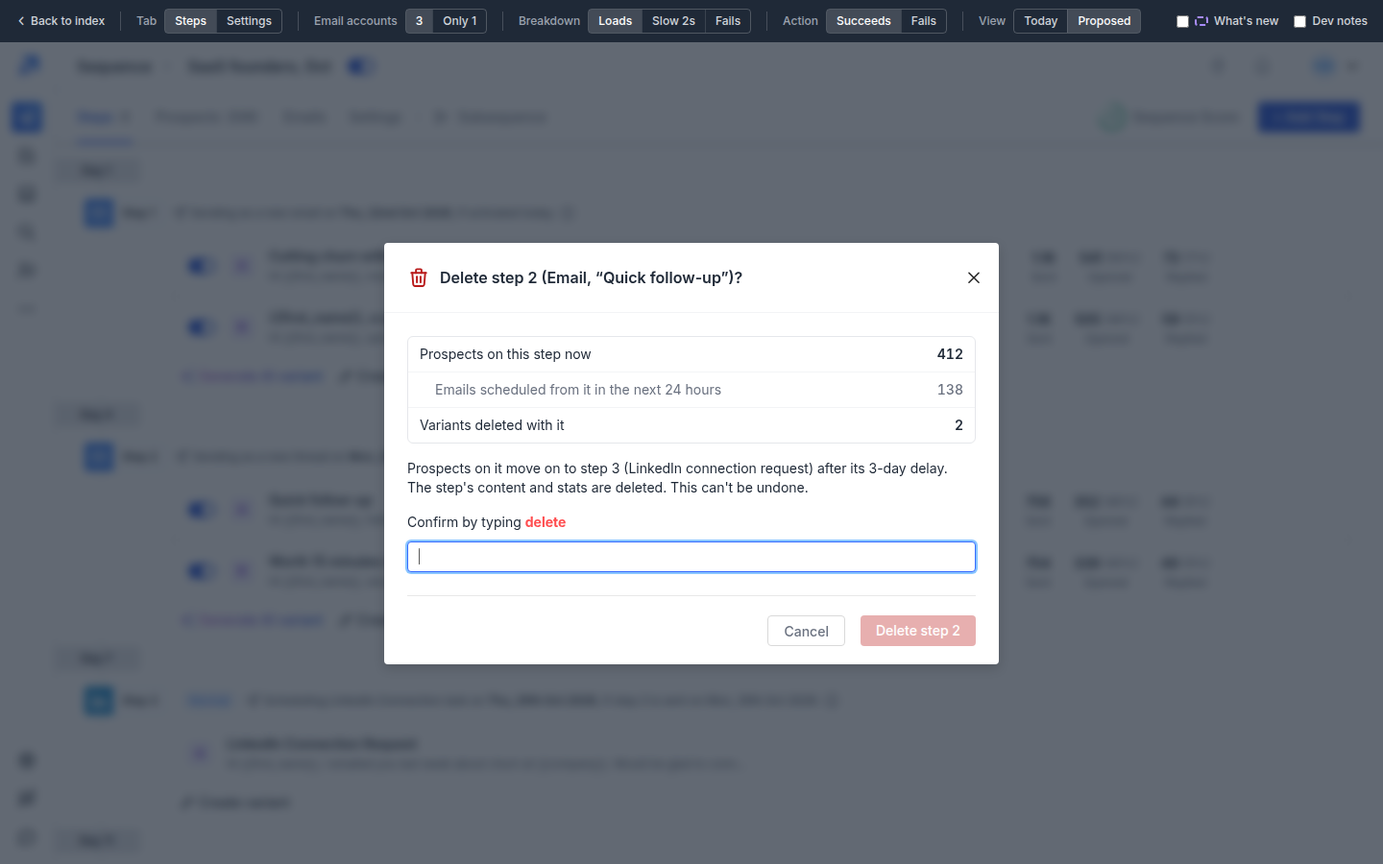
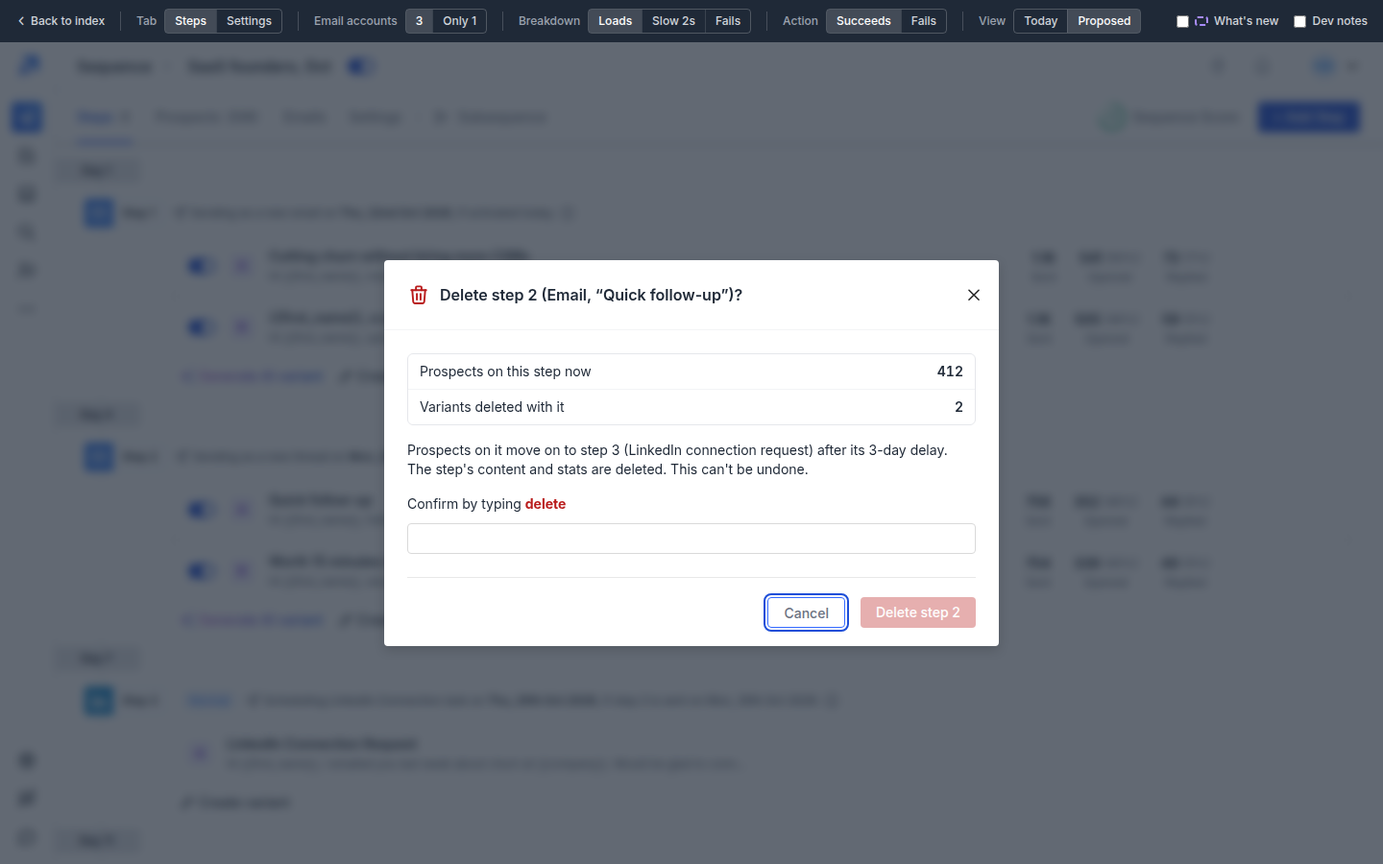
Dialogs: no names list, no time-window rows
- Never list selected items' names: the selection stays visible behind the dialog (Sequence list Pause, Resume, Delete; Email accounts bulk Delete, Disconnect)
- Drop rows counting what is due soon: next hour, today, next 24 hours (Sequence list, Email accounts, Delete step, Remove email account)
- One remaining row renders as a sentence
- Rule added to spec anatomy and PRD D1; acceptance rows, screens 07 08 10 12 24 25, PRD page rebuilt

Changed region(s): [[0.2812, 0.4044, 0.7188, 0.7778], [0.2812, 0.28, 0.7188, 0.3733], [0.6562, 0.4044, 0.7188, 0.4356]]

diff --git a/prototype/sequence-list.js b/prototype/sequence-list.js
@@ -117,9 +117,9 @@
       { key: 'view', label: 'View', value: S.view, options: [['today', 'Today'], ['proposed', 'Proposed']], onChange: (v) => { S.view = v; if (v === 'today' && S.all) { S.all = false; list().slice(0, CAP).forEach((s) => S.sel.add(s.id)); } render(); } },
     ],
     devNotes: {
-      intro: 'Spec row 5. The bulk bar acts on up to 100 sequences (constants.SELECTED_SEQUENCE_LIMIT). The breakdown counts (prospects in progress, emails scheduled in the next hour, subsequences) come from the backend before the dialog opens. Undo needs the bulk pause or resume to start only after 10 seconds and be cancellable until then; the bulk endpoints already return per-sequence success and failure counts.',
+      intro: 'Spec row 5. The bulk bar acts on up to 100 sequences (constants.SELECTED_SEQUENCE_LIMIT). The breakdown counts (prospects in progress, subsequences) come from the backend before the dialog opens. Undo needs the bulk pause or resume to start only after 10 seconds and be cancellable until then; the bulk endpoints already return per-sequence success and failure counts.',
       rows: [
-        { n: 5, surface: 'Sequence list', action: 'Bulk Pause, bulk Resume, row switch', patterns: 'A B F H', breakdown: 'Sequences named (first 3, then "and N more"). Pause: prospects in progress who stop getting emails, emails scheduled in the next hour, subsequences (keep sending, or pause too when the checkbox is on). Resume: prospects in progress who start getting emails again, emails that go out today. Sequences the action does not apply to are named in a note, including any that cannot resume because their email account is disconnected.', undo: 'Yes, 10 seconds',
+        { n: 5, surface: 'Sequence list', action: 'Bulk Pause, bulk Resume, row switch', patterns: 'A B F H', breakdown: 'No names list: the selected rows stay visible behind the dialog. Pause: prospects in progress who stop getting emails, subsequences (keep sending, or pause too when the checkbox is on). Resume: prospects in progress who start getting emails again. Sequences the action does not apply to are named in a note, including any that cannot resume because their email account is disconnected.', undo: 'Yes, 10 seconds',
           code: [
             { label: 'sequence-list-filter-bar.tsx L180-218 (icon-only Pause and Resume, red "Delete N Sequences")', url: FB + '#L180-L218' },
             { label: 'pause-resume-sequence-modal.tsx L38-67 ("Are you sure you want to pause the Sequence?", Yes / No)', url: MD + '#L38-L67' },
@@ -238,18 +238,8 @@
   const q = (s) => `“${esc(s.title)}”`;
   const nS = (n) => `${fmt(n)} ${plural(n, 'sequence', 'sequences')}`;
   const sum = (arr, k) => arr.reduce((a, s) => a + s[k], 0);
-  const names = (arr) => {
-    const first = arr.slice(0, 3).map(q);
-    const more = arr.length - first.length;
-    if (!more) return first.length === 1 ? first[0] : `${first.slice(0, -1).join(', ')} and ${first[first.length - 1]}`;
-    return `${first.join(', ')} and ${fmt(more)} more`;
-  };
   const isEverything = (arr) => arr.length === list().length;
   const dlgCommon = (o) => Object.assign({ breakdown: S.breakdown, submit: S.result, breakdownDelay: window.SL_BD, submitDelay: window.SL_SD }, o);
-  function addNames(dlg, arr) { // the sequences, named, sit above the breakdown
-    const box = dlg.el.querySelector('.nx-impact');
-    box.prepend(h(`<p class="sl-names">${names(arr)}</p>`));
-  }
   /* Today's "Pause the subsequences as well" checkbox, kept; it now carries the count and updates the breakdown row */
   function subExtra(count, row) {
     let on = false;
@@ -300,9 +290,9 @@
       tone: 'primary', icon: NX.IMG('pause-circle.svg'),
       rows: [
         { key: 'active', label: 'Prospects in progress who stop getting emails', value: sum(arr, 'inProgress') },
-        { key: 'soon', label: 'Emails scheduled in the next hour', value: sum(arr, 'nextHour'), sub: true },
         subRow,
       ],
+      sentence: (r) => (r.key === 'active' ? `${fmt(r.value)} ${plural(r.value, 'prospect is', 'prospects are')} in progress and ${r.value === 1 ? 'stops' : 'stop'} getting emails.` : `${fmt(r.value)} ${plural(r.value, 'subsequence keeps', 'subsequences keep')} sending.`),
       note: skipped ? `${nS(skipped)} ${skipped === 1 ? 'is' : 'are'} already paused and ${skipped === 1 ? 'stays' : 'stay'} as ${skipped === 1 ? 'it is' : 'they are'}.` : null,
       extra: subs ? subExtra(subs, subRow) : null,
       consequence: `They stop sending until you resume them.${allActive ? ' Nothing sends from this account until then.' : ''} You can undo this for 10 seconds.`,
@@ -318,12 +308,11 @@
       // one sequence: no lookup; the breakdown becomes one sentence from the row's own counts
       o.rows = [{ key: 'one', label: '', value: 1 }];
       o.breakdown = 'ok'; o.breakdownDelay = 0;
-      o.sentence = `${fmt(s.inProgress)} ${plural(s.inProgress, 'prospect is', 'prospects are')} in progress${s.nextHour ? `, with ${fmt(s.nextHour)} ${plural(s.nextHour, 'email', 'emails')} scheduled in the next hour` : ''}. ${s.subs.length ? `Its ${s.subs.length === 1 ? 'subsequence keeps' : `${s.subs.length} subsequences keep`} sending unless you pause ${s.subs.length === 1 ? 'it' : 'them'} too.` : ''}`;
+      o.sentence = `${fmt(s.inProgress)} ${plural(s.inProgress, 'prospect is', 'prospects are')} in progress. ${s.subs.length ? `Its ${s.subs.length === 1 ? 'subsequence keeps' : `${s.subs.length} subsequences keep`} sending unless you pause ${s.subs.length === 1 ? 'it' : 'them'} too.` : ''}`;
       o.consequence = `It stops sending until you resume it. You can undo this for 10 seconds.`;
       o.onConfirm = (withSubs) => commitStatus(arr, 'paused', withSubs, { message: `Paused ${q(s)}`, undone: `Undone. ${q(s)} is active again` });
     }
     const dlg = nxImpactDialog(o);
-    if (!one) addNames(dlg, arr);
     return dlg;
   }
 
@@ -343,8 +332,8 @@
       tone: 'primary', icon: NX.IMG('play-circle.svg'),
       rows: [
         { key: 'inprog', label: 'Prospects in progress who start getting emails again', value: sum(arr, 'inProgress') },
-        { key: 'today', label: 'Emails that go out today', value: sum(arr, 'sendToday'), sub: true },
       ],
+      sentence: (r) => `${fmt(r.value)} ${plural(r.value, 'prospect is', 'prospects are')} in progress and ${r.value === 1 ? 'starts' : 'start'} getting emails again.`,
       note: notes.join(' ') || null,
       consequence: `They pick up where they stopped. You can undo this for 10 seconds.`,
       primaryLabel: one ? 'Resume sequence' : `Resume ${nS(N)}`,
@@ -358,11 +347,10 @@
       const s = arr[0];
       o.rows = [{ key: 'one', label: '', value: 1 }];
       o.breakdown = 'ok'; o.breakdownDelay = 0;
-      o.sentence = `${fmt(s.inProgress)} ${plural(s.inProgress, 'prospect is', 'prospects are')} still in progress${s.sendToday ? `; ${fmt(s.sendToday)} ${plural(s.sendToday, 'email goes', 'emails go')} out today` : ''}.`;
+      o.sentence = `${fmt(s.inProgress)} ${plural(s.inProgress, 'prospect is', 'prospects are')} still in progress.`;
       o.consequence = 'It picks up where it stopped. You can undo this for 10 seconds.';
     }
     const dlg = nxImpactDialog(o);
-    if (!one) addNames(dlg, arr);
     return dlg;
   }
 
@@ -386,9 +374,9 @@
         tone: 'danger',
         rows: [
           { key: 'active', label: 'Prospects in progress', value: sum(sel, 'inProgress') },
-          { key: 'soon', label: 'Emails scheduled in the next hour', value: sum(sel, 'nextHour') },
           { key: 'subs', label: 'Subsequences deleted with them', value: subs },
         ],
+        sentence: (r) => (r.key === 'active' ? `${fmt(r.value)} ${plural(r.value, 'prospect is', 'prospects are')} in progress.` : `${fmt(r.value)} ${plural(r.value, 'subsequence is', 'subsequences are')} deleted with them.`),
         consequence: `${one ? 'Its' : 'Their'} steps, prospects' progress and stats are deleted. This can't be undone.`,
         primaryLabel: one ? 'Delete sequence' : `Delete ${nS(N)}`, typeToConfirm: 'delete',
         failMessage: { title: `We couldn't delete ${one ? 'this sequence' : 'these sequences'} because ${one ? 'it was' : 'one of them was'} already deleted by a teammate.`, body: 'Refresh the page and try again.' },
@@ -402,10 +390,9 @@
         const x = sel[0];
         o.rows = [{ key: 'one', label: '', value: 1 }];
         o.breakdown = 'ok'; o.breakdownDelay = 0;
-        o.sentence = `${fmt(x.inProgress)} ${plural(x.inProgress, 'prospect is', 'prospects are')} in progress${x.nextHour ? `, with ${fmt(x.nextHour)} ${plural(x.nextHour, 'email', 'emails')} scheduled in the next hour` : ''}.${x.subs.length ? ` Its ${x.subs.length === 1 ? 'subsequence is' : `${fmt(x.subs.length)} subsequences are`} deleted with it.` : ''}`;
+        o.sentence = `${fmt(x.inProgress)} ${plural(x.inProgress, 'prospect is', 'prospects are')} in progress.${x.subs.length ? ` Its ${x.subs.length === 1 ? 'subsequence is' : `${fmt(x.subs.length)} subsequences are`} deleted with it.` : ''}`;
       }
       const dlg = nxImpactDialog(o);
-      if (!one) addNames(dlg, sel);
       return dlg;
     }
     return window.SL_DELETE(sel.length, () => {

diff --git a/prototype/email-accounts.js b/prototype/email-accounts.js
@@ -104,17 +104,17 @@
       { key: 'reset', label: 'Data', value: '', options: [['reset', 'Reset']], onChange: () => { DATA = build(); gone.clear(); applySel(S.sel); render(); shell.setControl('reset', ''); } },
     ],
     devNotes: {
-      intro: 'Spec rows 17 to 20. Counts in every dialog come from the backend when it opens (one call, also for a single account: emails scheduled today are not on the row). Delete and Disconnect have no undo because they act on Google, Microsoft or the SMTP server at once. Pause and Remove tags need the real change to start only after 10 seconds and be cancellable until then.',
+      intro: 'Spec rows 17 to 20. Counts in every dialog come from the backend when it opens (one call, also for a single account). Delete and Disconnect have no undo because they act on Google, Microsoft or the SMTP server at once. Pause and Remove tags need the real change to start only after 10 seconds and be cancellable until then.',
       rows: [
         { n: 17, surface: 'Email accounts', action: 'Bulk Delete, bulk Disconnect (up to 25,000)', patterns: 'A B F',
-          breakdown: 'Accounts named (first 3 and "and N more"). Sequences that pause because no other sender is left; sequences that keep sending from other accounts; emails scheduled today from these accounts; accounts whose warm-up stops (Delete only). Sequences that pause are named in a note. The title counts what changes: Disconnect skips accounts that are already paused or disconnected and says so. Delete of everything says "all" and adds "No email accounts will be left to send from."',
+          breakdown: 'No names list: the selected rows stay visible behind the dialog. Sequences that pause because no other sender is left; sequences that keep sending from other accounts; accounts whose warm-up stops (Delete only). Sequences that pause are named in a note. The title counts what changes: Disconnect skips accounts that are already paused or disconnected and says so. Delete of everything says "all" and adds "No email accounts will be left to send from."',
           undo: 'No', code: [{ label: 'email-accounts-actions.tsx L163-207 (icon-only bar, tooltips only)', url: ACT + '#L163-L207' }, { label: 'email-accounts-actions.tsx L684-740 (both modals, "Yes")', url: ACT + '#L684-L740' }, { label: 'en.ts L1647-1650 ("all the selected email accounts")', url: LOC + '#L1647-L1650' }, { label: 'helper.ts L52-55 ("6 Email Account(s) selected.")', url: BAN + '#L52-L55' }],
           v3: 'saleshandy-app b39fe37 has no Email Accounts page (src/features has none), so nothing to change there yet.' },
         { n: 18, surface: 'Email accounts', action: 'Single Delete, Disconnect (row menu)', patterns: 'F',
           breakdown: 'Account named in the title. Same rows as bulk for that one account; sequences that pause are named.', undo: 'No',
           code: [{ label: 'email-accounts-table.tsx L194-258 (row menu)', url: TBL + '#L194-L258' }, { label: 'delete-email-account-modal.tsx L16-41 (account not named)', url: EA + 'components/delete-email-account-modal/delete-email-account-modal.tsx#L16-L41' }, { label: 'disconnect-email-account-modal.tsx', url: EA + 'components/disconnect-email-account-modal/disconnect-email-account-modal.tsx' }] },
         { n: 19, surface: 'Email accounts', action: 'Status switch to Pause', patterns: 'F H',
-          breakdown: 'Sequences that pause (no other sender left), sequences that keep sending, emails scheduled today from it.', undo: 'Yes, 10 seconds',
+          breakdown: 'Sequences that pause (no other sender left), sequences that keep sending.', undo: 'Yes, 10 seconds',
           code: [{ label: 'get-email-accounts-columns.tsx L250-263 (switch)', url: COL + '#L250-L263' }, { label: 'email-accounts-content.tsx L1062-1068, L800-806 (fires at once)', url: CNT + '#L1062-L1068' }, { label: 'email-accounts-content.tsx L474 ("Email account paused successfully")', url: CNT + '#L474' }] },
         { n: 20, surface: 'Email accounts', action: 'Remove tags', patterns: 'A F H',
           breakdown: 'Tags on the selected accounts, each with how many of them carry it; the picker is the breakdown. The consequence counts the accounts that lose at least one tag.', undo: 'Yes, 10 seconds',
@@ -248,10 +248,6 @@
     if (q.length <= 3) return q.length === 1 ? q[0] : `${q.slice(0, -1).join(', ')} and ${q[q.length - 1]}`;
     return `${q.slice(0, 3).join(', ')} and ${q.length - 3} more`;
   };
-  const namesLine = (accts) => {
-    const e = accts.map((a) => esc(a.email));
-    return e.length <= 3 ? `${e.slice(0, -1).join(', ')} and ${e[e.length - 1]}` : `${e.slice(0, 3).join(', ')} and ${e.length - 3} more`;
-  };
   function addLead(d, html) {
     const imp = d.el.querySelector('.nx-impact');
     if (imp) imp.prepend(h(`<p class="ea-lead nx-new">${html}</p>`));
@@ -262,17 +258,15 @@
     return [
       { key: 'stop', label: 'Sequences that pause, no other sender left', value: imp.stop.length },
       { key: 'keep', label: 'Sequences that keep sending from other accounts', value: imp.keep.length },
-      { key: 'today', label: `Emails scheduled today from ${one ? 'it' : 'these accounts'}`, value: imp.today },
       ...(withWarm ? [{ key: 'warm', label: 'Accounts whose warm-up stops', value: one ? 0 : imp.warm }] : []),
     ];
   }
   const sentenceFor = (one) => (r) => ({
     stop: `${r.value === 1 ? '1 sequence pauses' : `${fmt(r.value)} sequences pause`}; no other sender is left.`,
     keep: `${nS(r.value)} keep${r.value === 1 ? 's' : ''} sending from other accounts.`,
-    today: `${fmt(r.value)} ${plural(r.value, 'email is', 'emails are')} scheduled today from ${one ? 'it' : 'these accounts'}.`,
     warm: one ? 'Its warm-up stops.' : `Warm-up stops on ${nE(r.value)}.`,
   }[r.key]);
-  const hasImpact = (imp, warm) => imp.stop.length + imp.keep.length + imp.today + (warm ? imp.warm : 0) > 0;
+  const hasImpact = (imp, warm) => imp.stop.length + imp.keep.length + (warm ? imp.warm : 0) > 0;
   const stopNote = (imp) => (imp.stop.length ? `${quoteList(imp.stop)} ${imp.stop.length === 1 ? 'has' : 'have'} no other sender.` : null);
 
   function openBulk(kind) {
@@ -302,7 +296,6 @@
         : { title: "We couldn't disconnect these email accounts because Google and Microsoft did not respond in time.", body: 'Nothing changed. Try again in a minute.' },
       onConfirm: () => done(kind, targets),
     }));
-    addLead(d, namesLine(targets));
     return d;
   }
 

diff --git a/prototype/sequence-steps.js b/prototype/sequence-steps.js
@@ -82,9 +82,9 @@
     devNotes: {
       intro: 'Spec rows 6 and 7. Pattern F only: no undo, because a deleted step and a removed sender cannot be put back exactly as they were. Breakdown counts come from the backend when the dialog opens (one call per dialog); the dialog opens at once with the step or account named in the title.',
       rows: [
-        { n: 6, surface: 'Sequence > Steps', action: 'Delete step', patterns: 'F', breakdown: 'Prospects on this step now; emails scheduled from it in the next 24 hours (LinkedIn: tasks due); variants deleted with it (only when more than 1). Consequence names where those prospects go next: the next step on its delay, or out of the sequence if it was the last step. No prospects and nothing scheduled: one sentence.', undo: 'No. Typed "delete" kept inside the dialog (23 Oct 2026)',
+        { n: 6, surface: 'Sequence > Steps', action: 'Delete step', patterns: 'F', breakdown: 'Prospects on this step now; variants deleted with it (only when more than 1). Consequence names where those prospects go next: the next step on its delay, or out of the sequence if it was the last step. No prospects on it: one sentence.', undo: 'No. Typed "delete" kept inside the dialog (23 Oct 2026)',
           code: [{ label: 'sequence-single-step-header.tsx L174-182 (trash icon)', url: SC + 'sequence-single-step-header/sequence-single-step-header.tsx#L174-L182' }, { label: 'sequence-single-step-list.tsx L912-918 (submit handler)', url: SC + 'sequence-single-step-list/sequence-single-step-list.tsx#L912-L918' }, { label: 'sequence-single-step-list.tsx L1620-1626 (modal mount)', url: SC + 'sequence-single-step-list/sequence-single-step-list.tsx#L1620-L1626' }, { label: 'delete-step-modal.tsx L6-12 (copy)', url: C + 'shared/modals/delete-step-modal/delete-step-modal.tsx#L6-L12' }, { label: 'delete-modal.tsx (typed "delete", "Yes")', url: C + 'shared/modals/delete-modal/delete-modal.tsx' }] },
-        { n: 7, surface: 'Sequence > Settings', action: 'Remove email account from sequence', patterns: 'F', breakdown: 'Account named in the title; prospects whose next email was due from it; scheduled from it in the next 24 hours; follow-up emails that move to the other accounts (or stop, when it is the only account); prospects it already emailed (reply and bounce tracking). Accounts with nothing sent yet go through the same dialog. Assumption to confirm: tracking for emails it already sent stops.', undo: 'No',
+        { n: 7, surface: 'Sequence > Settings', action: 'Remove email account from sequence', patterns: 'F', breakdown: 'Account named in the title; prospects whose next email was due from it; follow-up emails that move to the other accounts (or stop, when it is the only account); prospects it already emailed (reply and bounce tracking). Accounts with nothing sent yet go through the same dialog. Assumption to confirm: tracking for emails it already sent stops.', undo: 'No',
           code: [{ label: 'sequence-email-accounts-list.tsx L51-61 (dialog only if isAnySequenceMailSent)', url: SET + 'sequence-email-accounts-list/sequence-email-accounts-list.tsx#L51-L61' }, { label: 'sequence-email-account-column.tsx L25-32 (X icon, "Remove email")', url: SET + 'sequence-email-accounts-list/helper/sequence-email-account-column.tsx#L25-L32' }, { label: 'remove-email-warning-modal.tsx L16-38 (account not named)', url: SET + 'remove-email-warning-modal/remove-email-warning-modal.tsx#L16-L38' }, { label: 'edge sequence.service.ts disconnectEmailAccount (pauses the sequence when no connected account is left)', url: EDGE + 'sequence/services/sequence.service.ts#L4438-L4545' }] },
       ],
       notes: [
@@ -154,18 +154,16 @@
 
     const next = steps[i + 1];
     const n = step.onStep;
-    const empty = !step.onStep && !step.soon;
+    const empty = !step.onStep;
     const rows = empty
       ? [{ key: 'empty', label: '', value: 1 }]
       : [
         { key: 'on', label: 'Prospects on this step now', value: step.onStep },
-        { key: 'soon', label: step.type === 'email' ? 'Emails scheduled from it in the next 24 hours' : 'LinkedIn tasks due from it in the next 24 hours', value: step.soon, sub: true },
         { key: 'variants', label: 'Variants deleted with it', value: step.variants.length > 1 ? step.variants.length : 0 },
       ];
     const sentence = (r) => {
-      if (r.key === 'empty') return 'No prospects have reached this step yet, and nothing is scheduled from it.';
+      if (r.key === 'empty') return 'No prospects have reached this step yet.';
       if (r.key === 'on') return `${fmt(r.value)} ${plural(r.value, 'prospect is', 'prospects are')} on this step now.`;
-      if (r.key === 'soon') return `${fmt(r.value)} ${plural(r.value, step.type === 'email' ? 'email is' : 'task is', step.type === 'email' ? 'emails are' : 'tasks are')} scheduled from it in the next 24 hours.`;
       return `Its ${r.value} variants are deleted with it.`;
     };
     const where = !n ? ''
@@ -207,7 +205,6 @@
       title: `Remove ${esc(a.email)} from ${QSEQ}?`, tone: 'danger',
       rows: [
         { key: 'due', label: 'Prospects whose next email was due from it', value: a.due },
-        { key: 'soon', label: 'Scheduled from it in the next 24 hours', value: a.soon, sub: true },
         { key: 'fu', label: others ? `Follow-up emails that move to your other ${acc}` : 'Follow-up emails that stop', value: a.followups },
         { key: 'emailed', label: 'Prospects it already emailed', value: a.emailed },
       ],

diff --git a/index.html b/index.html
@@ -281,7 +281,7 @@ figure img{width:100%;height:auto}
 </section>
 <section id="5-decisions" class="sec"><div class="sec-head"><span class="sec-num">5</span><h2>Decisions</h2></div>
 
-<p><strong>D1 – The impact dialog appears on every risky action, including a single item.</strong> <strong>Consequence to accept:</strong> one extra step on frequent clean-up work.</p>
+<p><strong>D1 – The impact dialog appears on every risky action, including a single item.</strong> It never lists the names of the selected items, since the selection stays visible behind it, and never counts what is due in a time window (next hour, today, next 24 hours). <strong>Consequence to accept:</strong> one extra step on frequent clean-up work.</p>
 <p><strong>D2 – Typing to confirm stays only where production asks for it today</strong> (typed "delete" on sequence, subsequence, step and variant delete). The Sequence &gt; Prospects dialogs never ask to type. Whether other new red dialogs ask to type is Q5. <strong>Consequence to accept:</strong> on Sequence &gt; Prospects, one click on the red button inside the dialog removes or unsubscribes.</p>
 <p><strong>D3 – Undo lasts 10 seconds; there is no restore after that.</strong> No undo on spends, security switches, plan changes, account deletion, or disconnecting integrations and mailboxes (their side effects outside Saleshandy happen at once). No undo on Remove from sequence: their progress in the sequence is deleted. No undo on Unsubscribe: a prospect is shared across sequences, so the system can't tell a user's resubscribe from the recipient's own unsubscribe, a compliance risk. No undo on Mark as finished: undoing would send the remaining steps. All three dialogs say so and give the way back: add them to the sequence again (engineering review, 19 Nov 2026). <strong>Consequence to accept:</strong> a mistake noticed later stays unrecoverable; on Sequence &gt; Prospects the dialog is the only guard for Remove, Unsubscribe and Mark as finished.</p>
 </section>
@@ -346,7 +346,7 @@ figure img{width:100%;height:auto}
 </table></div>
 <h3 id="6-2-sequence-list-rows-5-37">6.2 Sequence list (rows 5, 37)</h3>
 <figure><figcaption>Today</figcaption><a class="zoom" href="screens/06-seql-today.png" aria-label="View larger: Today"><img src="screens/06-seql-today.png" style="max-width:885px" alt="Today" loading="lazy"></a></figure>
-<p><strong>Why.</strong> Bulk pause names neither the sequences nor how many prospects stop; delete says nothing about what is lost.</p>
+<p><strong>Why.</strong> Bulk pause does not say how many prospects stop; delete says nothing about what is lost.</p>
 <figure><figcaption>Proposed: pause</figcaption><a class="zoom" href="screens/07-seql-pause.png" aria-label="View larger: Proposed: pause"><img src="screens/07-seql-pause.png" style="max-width:885px" alt="Proposed: pause" loading="lazy"></a></figure>
 <figure><figcaption>Proposed: delete</figcaption><a class="zoom" href="screens/08-seql-delete.png" aria-label="View larger: Proposed: delete"><img src="screens/08-seql-delete.png" style="max-width:885px" alt="Proposed: delete" loading="lazy"></a></figure>
 <div class="tbl-wrap"><table>
@@ -362,13 +362,13 @@ figure img{width:100%;height:auto}
 <tr>
 <td>SL-1</td>
 <td>Pause 12</td>
-<td>Rows: prospects who stop getting emails, emails in the next hour, subsequences; undo 10 s</td>
+<td>Rows: prospects who stop getting emails, subsequences; no list of sequence names (the selection stays visible behind the dialog); undo 10 s</td>
 <td>P0</td>
 </tr>
 <tr>
 <td>SL-2</td>
 <td>Delete 3</td>
-<td>Breakdown and "This can't be undone."; primary disabled until "delete" is typed; no undo</td>
+<td>Rows: prospects in progress, subsequences deleted with them; no names list; "This can't be undone."; primary disabled until "delete" is typed; no undo</td>
 <td>P0</td>
 </tr>
 <tr>
@@ -553,7 +553,7 @@ figure img{width:100%;height:auto}
 <tr>
 <td>EA-1</td>
 <td>Delete 6</td>
-<td>Rows: active sequences that pause, emails scheduled today; no undo</td>
+<td>Rows: active sequences that pause, sequences that keep sending; no list of account names; no undo</td>
 <td>P0</td>
 </tr>
 <tr>

diff --git a/prototype/sequence-list.html b/prototype/sequence-list.html
@@ -30,7 +30,6 @@
 .sequence-selection-info--wrapper .nx-banner-text { font-size: 12px; line-height: 22px; font-weight: 400; color: #1f2937; }
 .sequence-selection-info--wrapper .nx-banner-link { font-size: 12px; line-height: 22px; }
 /* F dialog: sequences named above the breakdown; the kept subsequence checkbox */
-.sl-names { font-size: 14px; line-height: 20px; color: #1f2937; overflow-wrap: anywhere; }
 .nx-extra .bs-checkbox-wrapper { display: inline-flex; align-items: center; gap: 8px; margin: 0; cursor: pointer; }
 .nx-extra .checkbox-label-text { font-size: 14px; line-height: 20px; color: #1f2937; }
 /* the switch must not flip before the dialog confirms */

diff --git a/safe-actions-spec.md b/safe-actions-spec.md
@@ -63,7 +63,7 @@ One dialog pattern for every risky action. Anatomy, top to bottom:
 | Part | Rule | Example |
 |---|---|---|
 | Title | Verb + count + noun + where, as a question. Single item: name it | "Remove 7 prospects from "SaaS founders, Oct"?" / "Delete the custom field "Industry"?" |
-| Breakdown | Up to 4 rows describing **what is affected**: the selection split by status, or the knock-on (sequences that pause, prospects that lose a value). Rows with 0 are hidden. If only one row would show, write it as a sentence instead | Still in progress 1,906 / Email scheduled in the next hour 214 / Replied 312 / Paused 122 |
+| Breakdown | Up to 4 rows describing **what is affected**: the selection split by status, or the knock-on (sequences that pause, prospects that lose a value). Rows with 0 are hidden. If only one row would show, write it as a sentence instead. Never list the names of selected items: the selection stays visible behind the dialog. No rows that count what is due in a time window (next hour, today, next 24 hours) | Still in progress 1,906 / Replied 312 / Paused 122 |
 | Consequence | One or two short sentences: what stops, what is lost, and whether it can be undone | "Its value is cleared on 2,340 prospects. This can't be undone." |
 | Buttons | Secondary "Cancel". Primary = verb + count + noun, never "Yes" or "OK". When one item is named in the title, verb + noun with no "1" | "Remove 7 prospects" / "Remove prospect" |
 | Colour | Red primary when data is lost: something is deleted, removed with its history (remove from sequence), or can never be undone (unsubscribe). Blue when nothing is lost and it can be redone by hand: pause, resume, assign outcome, skip, remove tags, remove from a list | |
@@ -148,8 +148,8 @@ Every P1 and P2 row of the audit, mapped. "Breakdown" lists the rows the F dialo
 | 2 | Sequence > Prospects | Unsubscribe | A B F | None; count of already unsubscribed for the skipped line | No | sequence-prospects.html |
 | 3 | Sequence > Prospects | Mark as replied, Mark as finished | A F, H on replied only | None; count already in that state for the skipped line | Replied yes, finished no | sequence-prospects.html |
 | 4 | Sequence > Prospects | Pause, Resume | A F | None; count not in progress (pause) or not paused (resume) for the skipped line | No | sequence-prospects.html |
-| 5 | Sequence list | Bulk pause / resume (up to 100) | A B F H | Sequences named (first 3 + "and N more"), active prospects affected, subsequences | Yes | sequence-list.html |
-| 6 | Sequence > Steps | Delete step (keeps today's typed "delete" inside F) | F | Prospects currently on this step, emails scheduled from it, where those prospects go next | No | sequence-steps.html |
+| 5 | Sequence list | Bulk pause / resume (up to 100) | A B F H | Active prospects affected, subsequences. No names list: the selection stays visible behind the dialog | Yes | sequence-list.html |
+| 6 | Sequence > Steps | Delete step (keeps today's typed "delete" inside F) | F | Prospects currently on this step, where those prospects go next | No | sequence-steps.html |
 | 7 | Sequence > Settings | Remove email account from sequence | F | Account named, prospects whose next email was due from it, follow-ups that stop | No | sequence-steps.html |
 | 8 | Unified Inbox | Bulk delete conversation | A B F H | Conversations, of which from active sequence prospects | Yes | unified-inbox.html |
 | 9 | Unified Inbox | Bulk unsubscribe | A B F H | Prospects, of which in active sequences | Yes | unified-inbox.html |
@@ -160,9 +160,9 @@ Every P1 and P2 row of the audit, mapped. "Breakdown" lists the rows the F dialo
 | 14 | CRM prospects | Remove tags | A F H | Prospects, tags being removed | Yes | crm-prospects.html |
 | 15 | CRM > Import CSV | Update All Fields / Overwrite | F | Existing prospects that will change, values that will be cleared (blank cells clear values for **both** options: [edge L2890-2903](https://github.com/saleshandy/saleshandy-edge/blob/4617c54245290552db5483f112542b98d6901fc9/src/contacts/services/contacts-import.service.ts#L2890-L2903); the Overwrite option text does not say so), new prospects added | No | csv-import.html |
 | 16 | CRM > AI column | Run (new column), run on existing column | L (+F for overwrite) | Rows, credits, values replaced | No | crm-prospects.html |
-| 17 | Email accounts | Bulk delete / disconnect | A B F | Accounts, active sequences that pause, emails scheduled today | No | email-accounts.html |
+| 17 | Email accounts | Bulk delete / disconnect | A B F | Active sequences that pause, sequences that keep sending; no names list | No | email-accounts.html |
 | 18 | Email accounts | Single delete / disconnect | F | Account named, sequences that pause | No | email-accounts.html |
-| 19 | Email accounts | Status switch to Pause | F H | Sequences using it, emails scheduled today | Yes | email-accounts.html |
+| 19 | Email accounts | Status switch to Pause | F H | Sequences using it | Yes | email-accounts.html |
 | 20 | Email accounts | Remove tags | A F H | Accounts, tags | Yes | email-accounts.html |
 | 21 | Lead Finder | Bulk reveal email / phone | A L | Credits by type | No | lead-finder.html |
 | 22 | Lead Finder | Save to list, Add to sequence with reveal | L | Credits | No | lead-finder.html |
@@ -180,7 +180,7 @@ Every P1 and P2 row of the audit, mapped. "Breakdown" lists the rows the F dialo
 | 34 | Admin settings | Account-wide integration events | F | Users whose events start flowing | No | admin-billing.html |
 | 35 | Profile | Delete account (Google/Microsoft users) | F + K | Everything erased | No | admin-billing.html |
 | 36 | Billing | Remove slots / seats, downgrade | M | See M | No | admin-billing.html |
-| 37 | Sequence list | Delete sequences (bulk up to 100, and the row menu) | B F | Sequences named (first 3 + "and N more"), prospects in progress, emails scheduled in the next hour, subsequences deleted with them. Keeps today's typed "delete" inside F | No | sequence-list.html |
+| 37 | Sequence list | Delete sequences (bulk up to 100, and the row menu) | B F | Prospects in progress, subsequences deleted with them. No names list. Keeps today's typed "delete" inside F | No | sequence-list.html |
 
 ## Backend asks
 

diff --git a/PRD.md b/PRD.md
@@ -40,7 +40,7 @@ About 110 risky actions audited: about 35 unconfirmed, about 35 with a confirmat
 
 ## 5. Decisions
 
-**D1 – The impact dialog appears on every risky action, including a single item.** **Consequence to accept:** one extra step on frequent clean-up work.
+**D1 – The impact dialog appears on every risky action, including a single item.** It never lists the names of the selected items, since the selection stays visible behind it, and never counts what is due in a time window (next hour, today, next 24 hours). **Consequence to accept:** one extra step on frequent clean-up work.
 
 **D2 – Typing to confirm stays only where production asks for it today** (typed "delete" on sequence, subsequence, step and variant delete). The Sequence > Prospects dialogs never ask to type. Whether other new red dialogs ask to type is Q5. **Consequence to accept:** on Sequence > Prospects, one click on the red button inside the dialog removes or unsubscribes.
 
@@ -79,7 +79,7 @@ Every state below opens from the prototype's demo bar, with a Today / Proposed s
 
 ![Today](screens/06-seql-today.png)
 
-**Why.** Bulk pause names neither the sequences nor how many prospects stop; delete says nothing about what is lost.
+**Why.** Bulk pause does not say how many prospects stop; delete says nothing about what is lost.
 
 ![Proposed: pause](screens/07-seql-pause.png)
 
@@ -87,8 +87,8 @@ Every state below opens from the prototype's demo bar, with a Today / Proposed s
 
 | ID | Case | Expected | P |
 |---|---|---|---|
-| SL-1 | Pause 12 | Rows: prospects who stop getting emails, emails in the next hour, subsequences; undo 10 s | P0 |
-| SL-2 | Delete 3 | Breakdown and "This can't be undone."; primary disabled until "delete" is typed; no undo | P0 |
+| SL-1 | Pause 12 | Rows: prospects who stop getting emails, subsequences; no list of sequence names (the selection stays visible behind the dialog); undo 10 s | P0 |
+| SL-2 | Delete 3 | Rows: prospects in progress, subsequences deleted with them; no names list; "This can't be undone."; primary disabled until "delete" is typed; no undo | P0 |
 | SL-3 | Resume includes a sequence with a disconnected mailbox | That sequence is left out and named in a note | P1 |
 
 ### 6.3 Sequence > Steps and Settings (rows 6, 7)
@@ -178,7 +178,7 @@ Every state below opens from the prototype's demo bar, with a Today / Proposed s
 
 | ID | Case | Expected | P |
 |---|---|---|---|
-| EA-1 | Delete 6 | Rows: active sequences that pause, emails scheduled today; no undo | P0 |
+| EA-1 | Delete 6 | Rows: active sequences that pause, sequences that keep sending; no list of account names; no undo | P0 |
 | EA-2 | Pause switch | Dialog names the account; undo 10 s | P1 |
 
 ### 6.9 Lead Finder and Email Verifier (rows 21-25)
